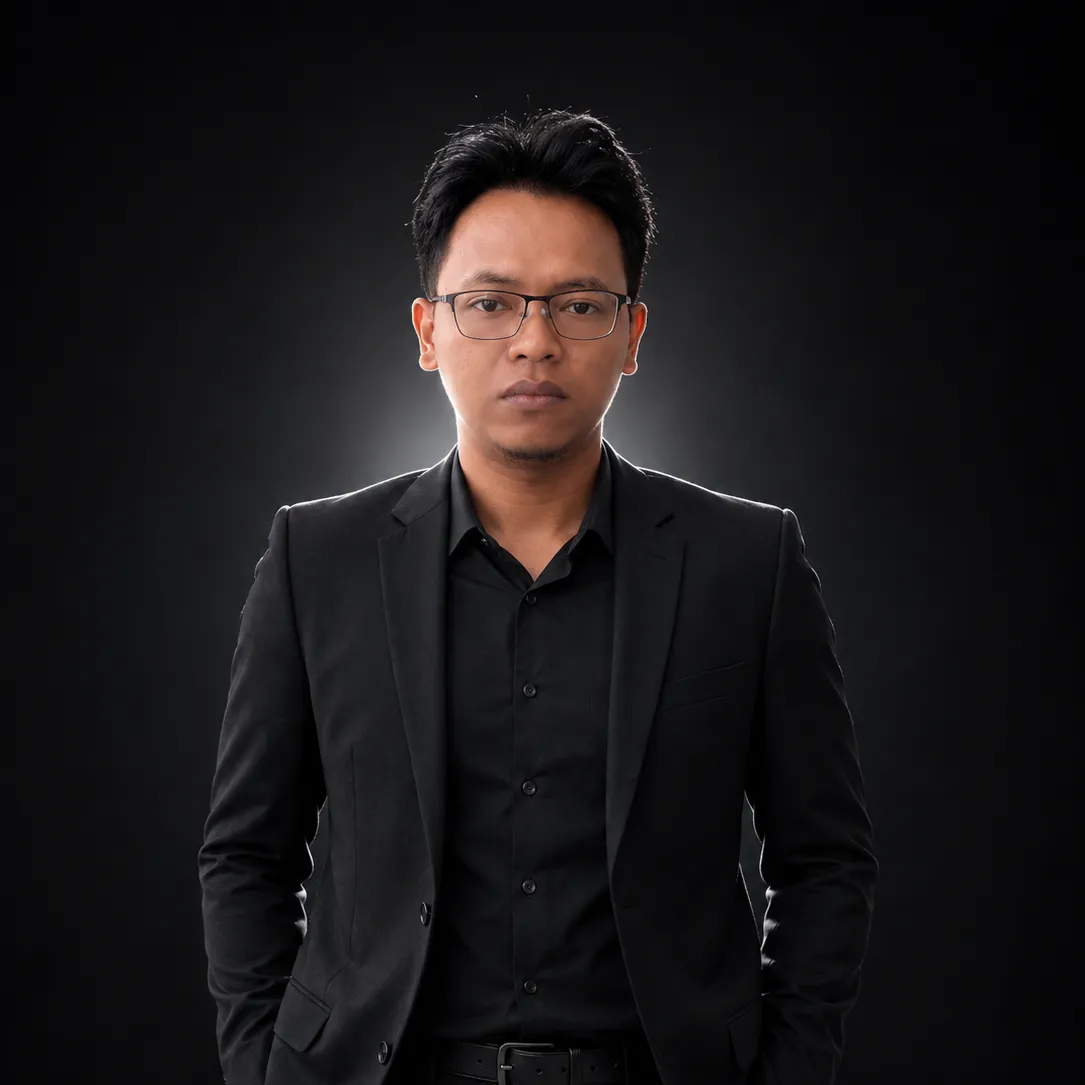
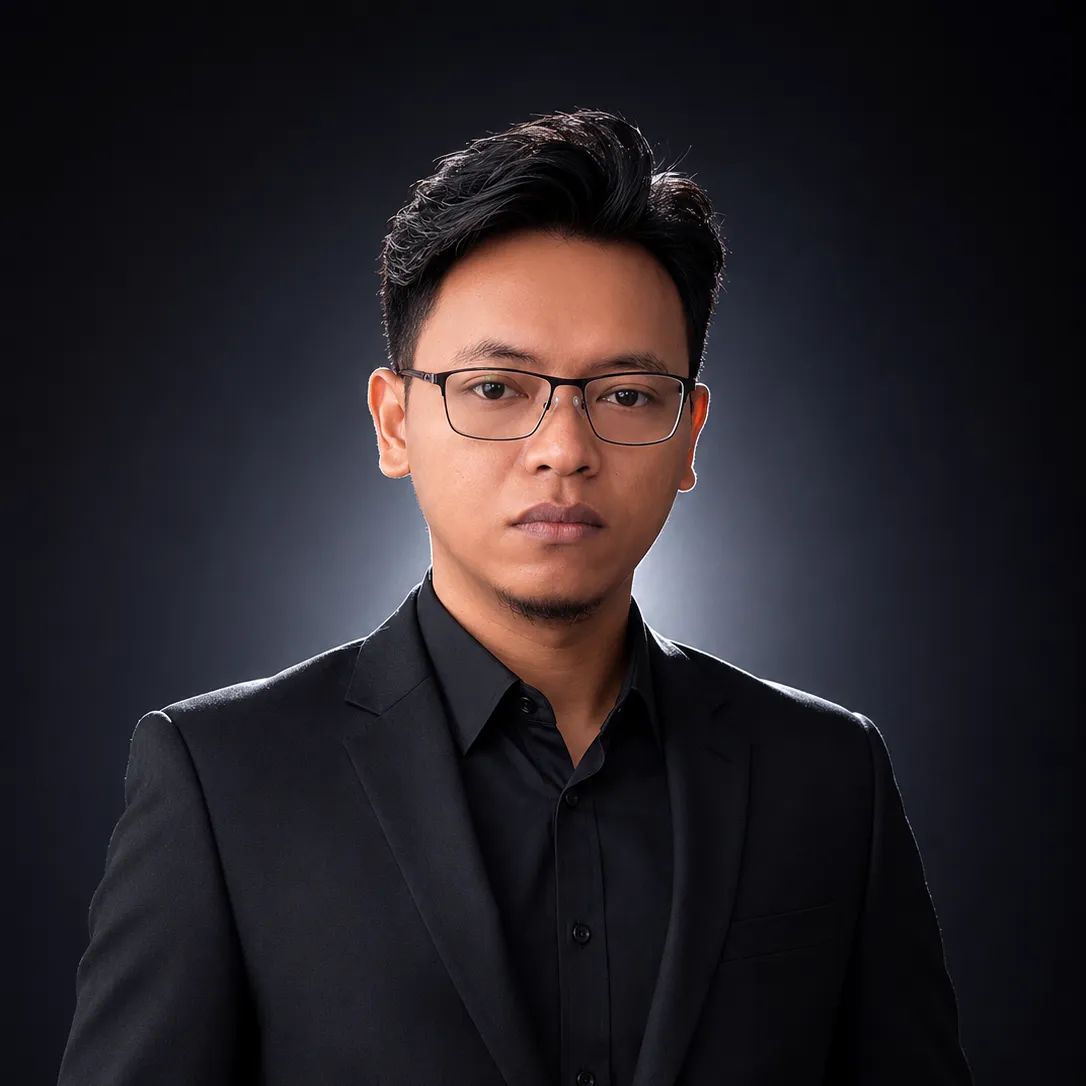
Update

diff --git a/style.css b/style.css
@@ -54,18 +54,20 @@ html {
   scroll-padding-top: clamp(60px, 8vh, 120px);
   height: 100%;
   width: 100%;
+  background-color: var(--bg-core);
 }
 
 body {
-  background: transparent;
+  background-color: var(--bg-core);
   color: var(--text-main);
   text-align: center;
   line-height: 1.6;
   overflow-x: hidden;
   position: relative;
   z-index: 1;
-  transition: color 0.3s ease;
+  transition: color 0.3s ease, background-color 0.5s ease;
   min-height: 100vh;
+  overscroll-behavior-y: none;
 }
 
 /* --- BACKGROUND --- */
@@ -546,35 +548,164 @@ nav {
   line-height: 1.6;
 }
 
-/* --- CONTACT --- */
-.contact {
-  width: 90%;
-  max-width: 800px;
-  margin: var(--card-margin) auto clamp(60px, 8vh, 80px);
-  border-radius: clamp(16px, 3vw, 20px);
-  padding: clamp(30px, 5vw, 50px);
-  color: var(--text-main);
+/* --- FOOTER --- */
+.site-footer {
+  position: relative;
+  width: 100%;
+  margin-top: var(--card-margin);
+  overflow: hidden;
+  border-top: 1px solid var(--glass-border);
+  background: var(--glass-bg);
+  backdrop-filter: blur(20px);
+  -webkit-backdrop-filter: blur(20px);
+}
+
+.footer-glow {
+  position: absolute;
+  top: 0;
+  left: 0;
+  right: 0;
+  height: 2px;
+  background: linear-gradient(90deg, transparent, var(--primary-accent), transparent);
+}
+
+.footer-inner {
   display: flex;
   flex-direction: column;
-  gap: clamp(15px, 2vh, 20px);
-  transition: transform 0.3s ease, border-color 0.3s ease;
+  max-width: 1100px;
+  margin: 0 auto;
+  padding: clamp(40px, 6vh, 60px) clamp(20px, 5vw, 40px) clamp(30px, 4vh, 40px);
+  gap: clamp(30px, 5vh, 40px);
 }
 
-.contact:hover {
-  transform: translateY(-3px);
-  border-color: var(--primary-accent);
+/* Desktop: brand + bottom-row berdampingan */
+@media screen and (min-width: 641px) {
+  .footer-inner {
+    flex-direction: row;
+    align-items: flex-start;
+    justify-content: space-between;
+    gap: clamp(30px, 5vw, 60px);
+  }
+
+  .footer-brand { flex: 1; min-width: 180px; }
+
+  .footer-bottom-row {
+    display: flex;
+    flex: 2;
+    gap: clamp(30px, 5vw, 60px);
+    justify-content: flex-end;
+  }
 }
 
-.contact p { font-size: clamp(0.95em, 2.5vw, 1.05em); }
+/* Mobile: brand full row, lalu nav + contact 2 kolom */
+@media screen and (max-width: 640px) {
+  .footer-brand {
+    display: flex;
+    flex-direction: row;
+    align-items: center;
+    gap: 12px;
+    width: 100%;
+    padding-bottom: clamp(20px, 3vh, 30px);
+    border-bottom: 1px solid var(--glass-border);
+  }
 
-.contact a {
+  .footer-bottom-row {
+    display: flex;
+    flex-direction: row;
+    gap: clamp(20px, 5vw, 40px);
+    width: 100%;
+  }
+
+  .footer-bottom-row .footer-col {
+    flex: 1;
+  }
+}
+
+.footer-col { text-align: left; }
+
+.footer-brand img {
+  width: clamp(36px, 5vw, 48px);
+  height: auto;
+  flex-shrink: 0;
+}
+
+.footer-brand h3 {
+  font-size: clamp(1em, 3vw, 1.3em);
+  font-weight: 700;
+  color: var(--text-main);
+  margin-bottom: 2px;
+}
+
+.footer-brand p {
+  font-size: clamp(0.72em, 1.8vw, 0.85em);
+  color: var(--text-muted);
+  line-height: 1.5;
+}
+
+.footer-links h4,
+.footer-contact h4 {
+  font-size: clamp(0.72em, 1.8vw, 0.82em);
+  font-weight: 700;
+  letter-spacing: 1.5px;
+  text-transform: uppercase;
   color: var(--primary-accent);
-  text-decoration: none;
-  font-weight: bold;
-  transition: opacity 0.3s ease;
+  margin-bottom: clamp(12px, 2vh, 18px);
 }
 
-.contact a:hover { opacity: 0.8; }
+.footer-links ul,
+.footer-contact ul {
+  list-style: none;
+  padding: 0;
+  margin: 0;
+  display: flex;
+  flex-direction: column;
+  gap: clamp(8px, 1.5vh, 12px);
+}
+
+.footer-links a {
+  color: var(--text-muted);
+  text-decoration: none;
+  font-size: clamp(0.82em, 2vw, 0.95em);
+  transition: color 0.2s ease, padding-left 0.2s ease;
+  display: inline-block;
+}
+
+.footer-links a:hover {
+  color: var(--primary-accent);
+  padding-left: 6px;
+}
+
+.footer-contact li {
+  display: flex;
+  align-items: center;
+  gap: 8px;
+}
+
+.footer-contact .material-icons {
+  font-size: 15px;
+  color: var(--primary-accent);
+  flex-shrink: 0;
+}
+
+.footer-contact a {
+  color: var(--text-muted);
+  text-decoration: none;
+  font-size: clamp(0.82em, 2vw, 0.95em);
+  transition: color 0.2s ease;
+}
+
+.footer-contact a:hover { color: var(--primary-accent); }
+
+.footer-copyright {
+  border-top: 1px solid var(--glass-border);
+  padding: clamp(15px, 2.5vh, 20px) clamp(20px, 5vw, 40px);
+  text-align: center;
+}
+
+.footer-copyright p {
+  font-size: clamp(0.72em, 1.8vw, 0.82em);
+  color: var(--text-muted);
+}
 
 /* --- BACK BUTTON & TOOLBAR --- */
 .toolbar-area {

diff --git a/index.html b/index.html
@@ -30,8 +30,8 @@
         </a>
       </div>
       <ul class="nav-links">
-        <li><a href="#blog">Blog</a></li>
-        <li><a href="#projects">Projects</a></li>
+        <li><a href="#blog">Article</a></li>
+        <li><a href="#projects">Portofolio</a></li>
         <li><a href="#profile">Profile</a></li>
         <li><a href="#contact">Contact</a></li>
       </ul>
@@ -53,8 +53,8 @@
     </div>
   </section>
 
-  <section id="projects" class="projects" aria-label="My Projects">
-    <h2>My Projects</h2>
+  <section id="projects" class="projects" aria-label="Portofolio">
+    <h2>Portofolio</h2>
     <div class="project-list">
 
       <div class="project-card">
@@ -114,13 +114,59 @@
     </div>
   </section>
 
-  <section id="contact" class="contact" aria-label="Contact">
-    <h2>Contact Me</h2>
-    <p>Email: <a href="mailto:[email redacted]">[email redacted]</a></p>
-    <p>Follow me on <a href="https://instagram.com/kuatodev" target="_blank" rel="noopener noreferrer">Instagram</a> & <a href="https://github.com/KuatoDev" target="_blank" rel="noopener noreferrer">GitHub</a></p>
-    <p>Subscribe my <a href="https://t.me/vernkuato" target="_blank" rel="noopener noreferrer">Telegram Channel</a></p>
-  </section>
+  <footer class="site-footer" id="contact">
+    <div class="footer-glow" aria-hidden="true"></div>
+    <div class="footer-inner">
+
+      <div class="footer-col footer-brand">
+        <img src="assets/logo.svg" alt="Vern Kuato Logo" width="48" height="48">
+        <div>
+          <h3>Vern Kuato</h3>
+          <p>Android Developer &amp; Fleet Monitoring Specialist</p>
+        </div>
+      </div>
+
+      <div class="footer-bottom-row">
+        <div class="footer-col footer-links">
+          <h4>Navigation</h4>
+          <ul>
+            <li><a href="#blog">Article</a></li>
+            <li><a href="#projects">Portofolio</a></li>
+            <li><a href="profile.html">Full Profile</a></li>
+            <li><a href="spin.html">Spin Lembur</a></li>
+          </ul>
+        </div>
+
+        <div class="footer-col footer-contact">
+          <h4>Get in Touch</h4>
+          <ul>
+            <li>
+              <span class="material-icons" aria-hidden="true">email</span>
+              <a href="mailto:[email redacted]">[email redacted]</a>
+            </li>
+            <li>
+              <span class="material-icons" aria-hidden="true">send</span>
+              <a href="https://t.me/vernkuato" target="_blank" rel="noopener noreferrer">Telegram Channel</a>
+            </li>
+            <li>
+              <span class="material-icons" aria-hidden="true">code</span>
+              <a href="https://github.com/KuatoDev" target="_blank" rel="noopener noreferrer">GitHub</a>
+            </li>
+            <li>
+              <span class="material-icons" aria-hidden="true">photo_camera</span>
+              <a href="https://instagram.com/kuatodev" target="_blank" rel="noopener noreferrer">Instagram</a>
+            </li>
+          </ul>
+        </div>
+      </div>
+
+    </div>
+    <div class="footer-copyright">
+      <p>© <span id="footerYear"></span> Vern Kuato. Built with ☕ on a Poco X3 Pro.</p>
+    </div>
+  </footer>
 
   <script src="script.js"></script>
+  <script>document.getElementById('footerYear').textContent = new Date().getFullYear();</script>
 </body>
 </html>

diff --git a/script.js b/script.js
@@ -157,7 +157,20 @@ function initSpinWheel() {
       const yanglembur = names[index];
 
       localStorage.setItem('lastLemburWinner', yanglembur);
-      alert(`Mampus!! Si ${yanglembur} yang lembur! Awokawokaowkaowk`);
+
+      const customMessages = {
+        'ARIS':    `Ciyeee si Aris mau ngumpulin modal pulang kampung... 😏`,
+        'ARY':     `Semangat!! Lemburan lebih gede daripada di Bluebird Riiiiiiii 🤪`,
+        'DWI NUR': `Kasian si Dwi jadi korban lembur.. 🥺`,
+        'SHOHIFDA':`Ehemmmm.... Mau nyari modal kawin lagi ya Sho?? 🤪`,
+        'KUATO':   `Getol amat cari duit? Mau beli PCX Baru ya wat?🤣`,
+        'ZULFIKAR':`Manusia yang gabisa sakit! Sikat lemburannya Zul!!!`,
+        'SURYAMIN':`BOSS YAMIN LEMBUUUUURRRRRRRRRRR`,
+      };
+
+      const key = yanglembur.trim().toUpperCase();
+      const message = customMessages[key] ?? `Mampus!! Si ${yanglembur} yang lembur! Awokawokaowkaowk`;
+      alert(message);
     }, spinDuration);
   }
 

diff --git a/spin.html b/spin.html
@@ -37,8 +37,7 @@
     </div>
     <div class="spin-input-area">
       <label for="namesInput">Daftar Peserta (Max 9):</label>
-      <textarea id="namesInput" placeholder="Ketik nama...">LUKMAN
-KUATO
+      <textarea id="namesInput" placeholder="Ketik nama...">KUATO
 DWI NUR
 ARY
 ZULFIKAR